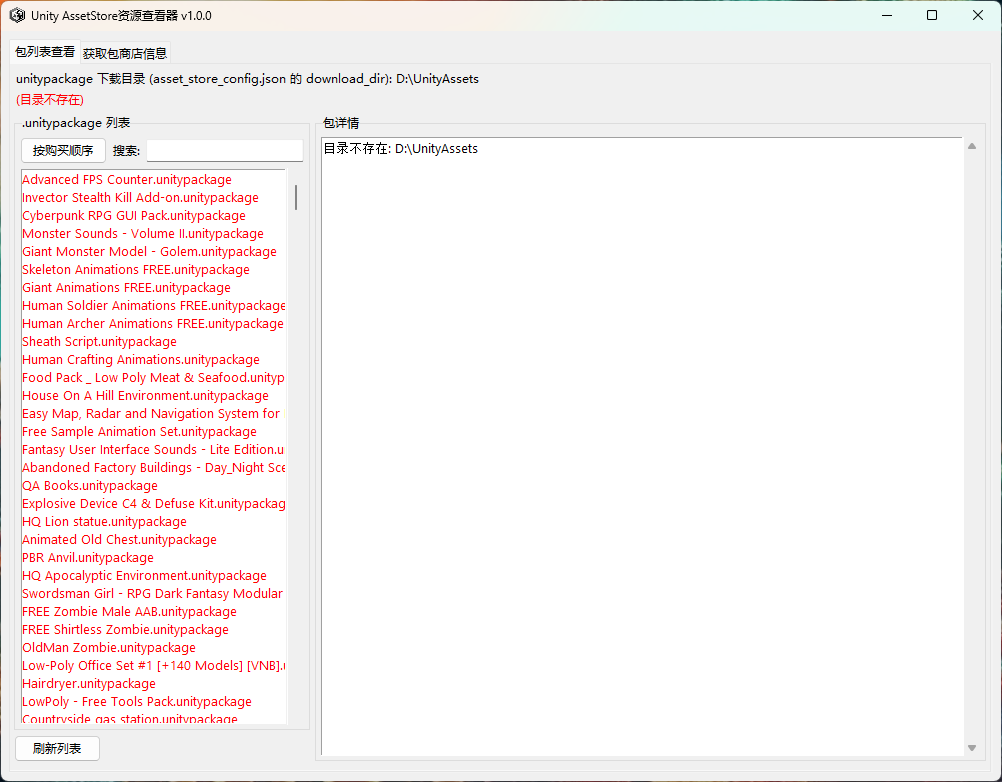
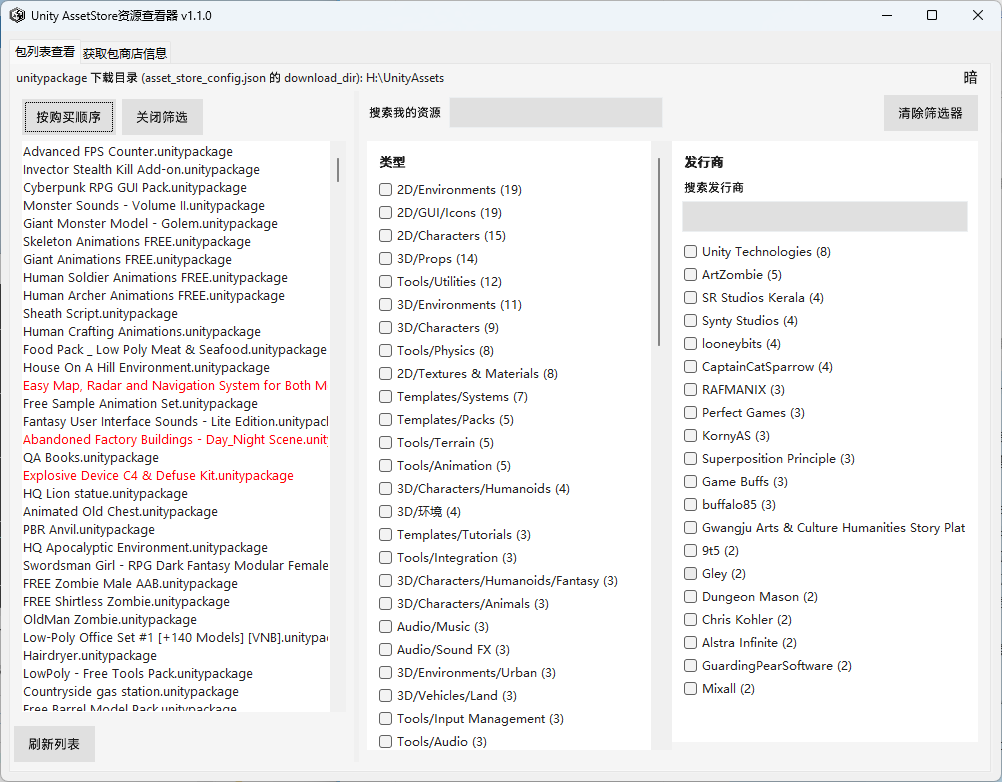
修改readme

diff --git a/README.md b/README.md
@@ -6,9 +6,17 @@
 
 ## 工具能做什么
 
+### v1.0.0
+
 - **浏览已下载素材**：按下载目录列出所有 `.unitypackage`，支持搜索过滤
 - **查看包详情**：选中后直接显示 Overview 描述、版本、出版商、包大小、更新说明等
 - **获取包商店信息**：从 Unity API 批量获取包信息并保存到 `metadata` 元数据库目录，之后离线也能查看
+
+### v1.1.0
+
+- **深色主题**：支持明/暗主题切换；点击界面「明/暗」切换
+- **筛选**：支持按类型（category）、发行商（publisher）以及「搜索我的资源」过滤列表；需先执行「获取包商店信息」
+- **导入**：可在详情区使用「在 Unity 中打开」一键导入当前运行的 Unity 编辑器
 
 适用场景：整理素材库、选包时快速查说明、备份包元数据等。
 
